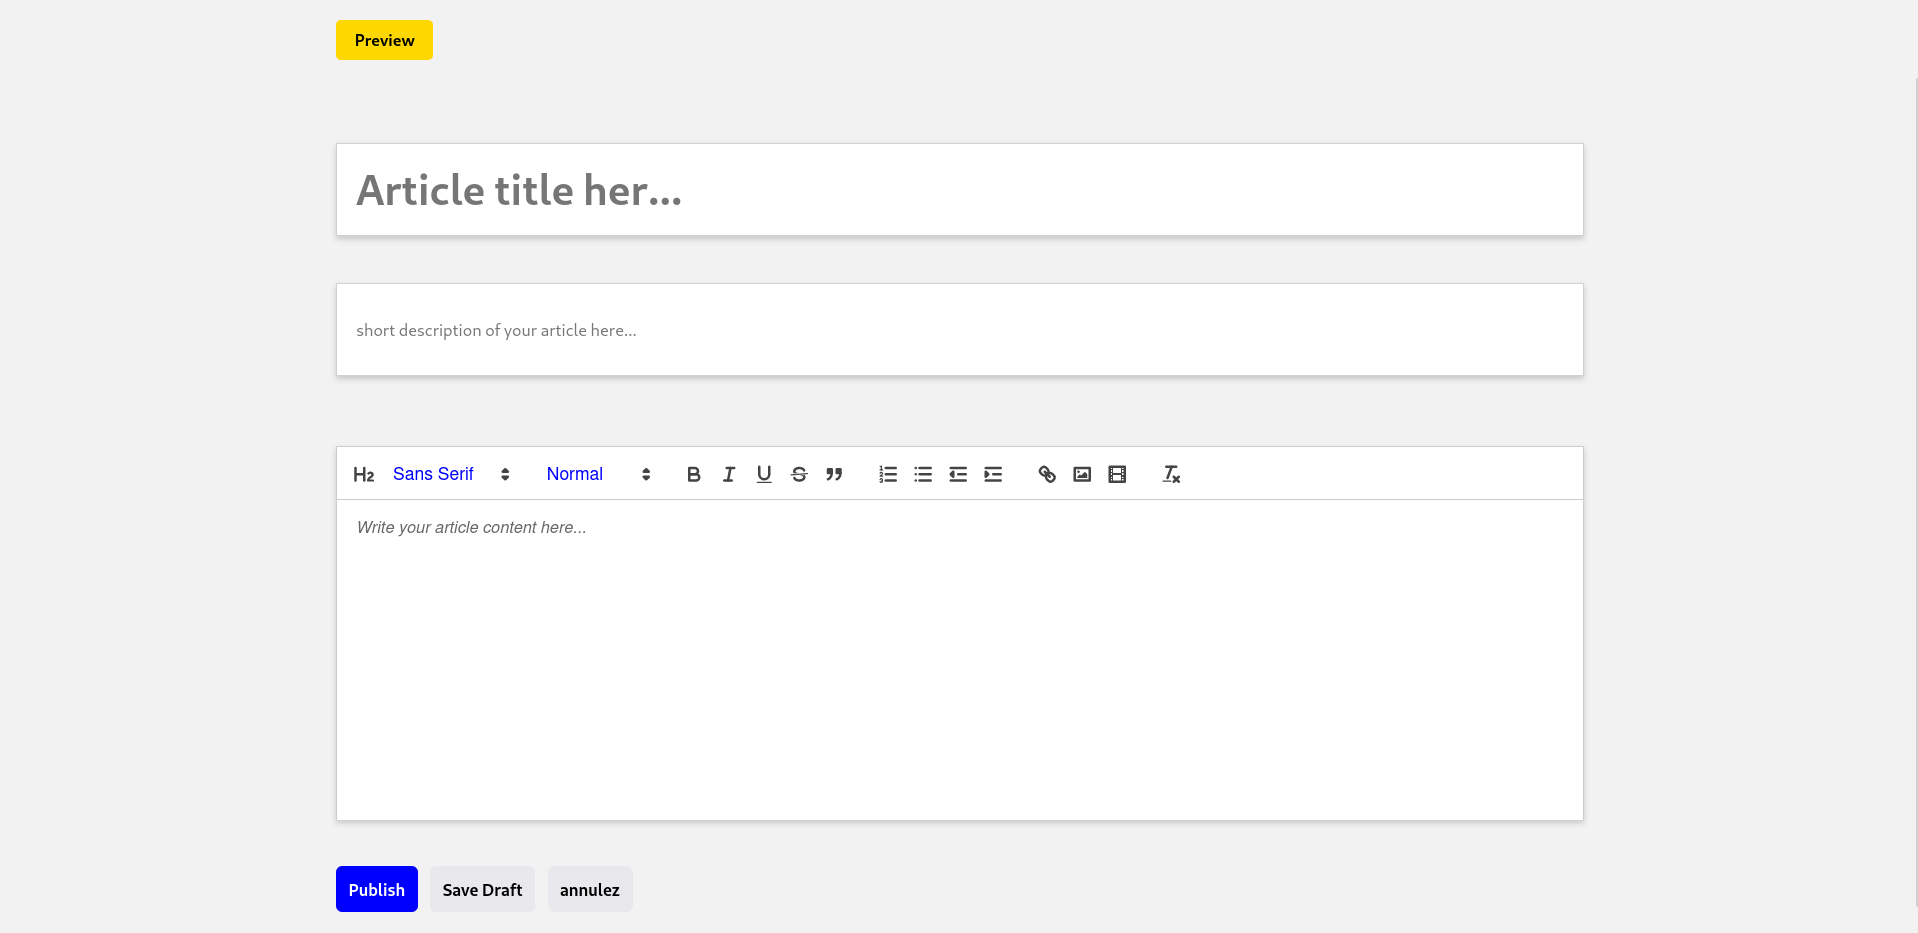
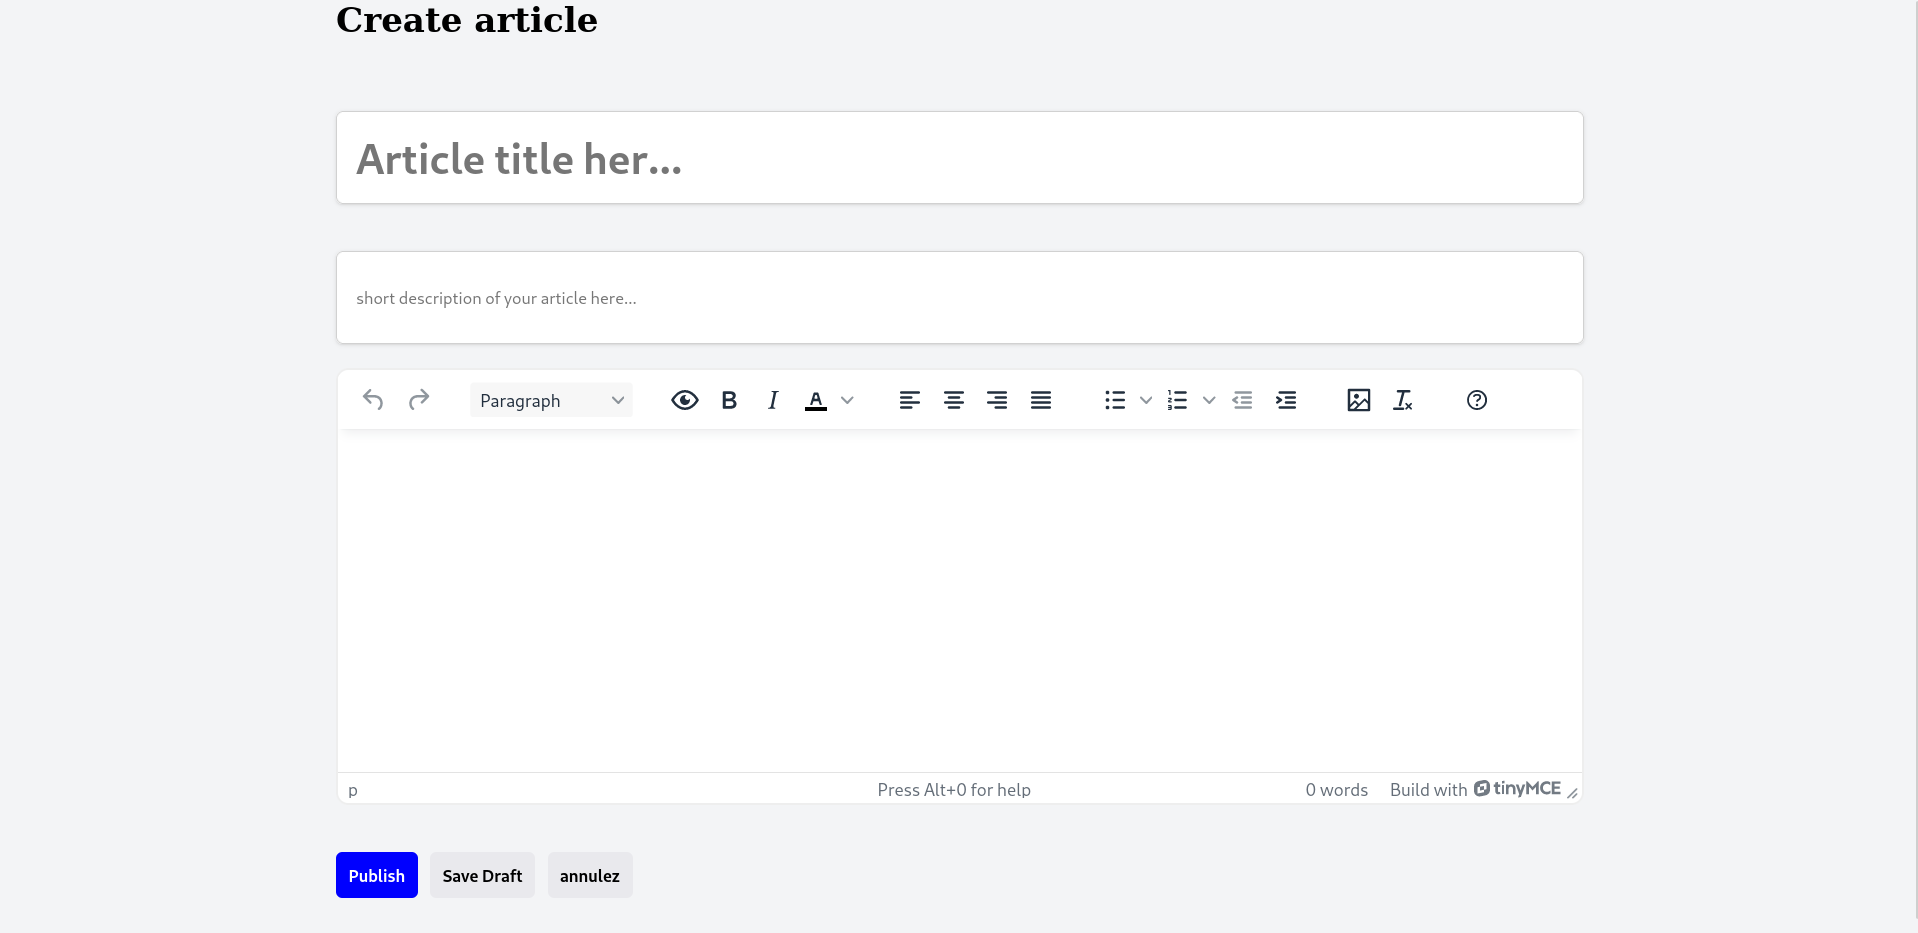
chore: update readme

diff --git a/src/Components/Layouts/ArticleFormLayout/TinyEditor/TinyEditor.jsx b/src/Components/Layouts/ArticleFormLayout/TinyEditor/TinyEditor.jsx
@@ -13,7 +13,7 @@ const TinyEditor = ({ content, setContent }) => {
         onChange={() => setContent(editorRef.current.getContent())}
         initialValue={content}
         init={{
-          height: 500,
+          height: 350,
           width: "100%",
           menubar: false,
           plugins: [

diff --git a/README.md b/README.md
@@ -12,7 +12,7 @@ A web application that allows users to create and manage blog posts. this also t
 
 - **Get Articles**: Retrieve both published and draft articles.
 
-- **Post New Article**: Users can create rich text blog posts with images and links using Editor.js.
+- **Post New Article**: Users can create rich text blog posts with images and links using TinyMCE.
 
 - **Edit Article**: Modify any existing post.
 
@@ -24,7 +24,7 @@ A web application that allows users to create and manage blog posts. this also t
 
 - SASS
 
-- [Editor.js](https://editorjs.io/)
+- [TinyMCE](https://www.tiny.cloud/)
 
 ## USAGE
 
@@ -32,15 +32,31 @@ A web application that allows users to create and manage blog posts. this also t
 
 - Node.js
 - npm
+- [TinyMCE Cloud Account](https://www.tiny.cloud/get-tiny/?utm_campaign=mlh_devrel_global_hackweek&utm_source=mlh&utm_medium=referral&utm_term=github) (allow you to get your api key)
 
 ### INSTALLATION
 
 ```bash
+# clone repo
+
 git clone https://github.com/johnOfGod33/admin-blog-panel.git
+
+# go to the directory
 
 cd admin-blog-panel
 
+# create environment variable file
+
+touch .env
+
+# add your tiny api key
+
+echo "REACT_APP_TINY_API_KEY=your_api_key" >> .env
+
+# install dependencies
 npm i
+
+# run the project
 
 npm start
 ```
